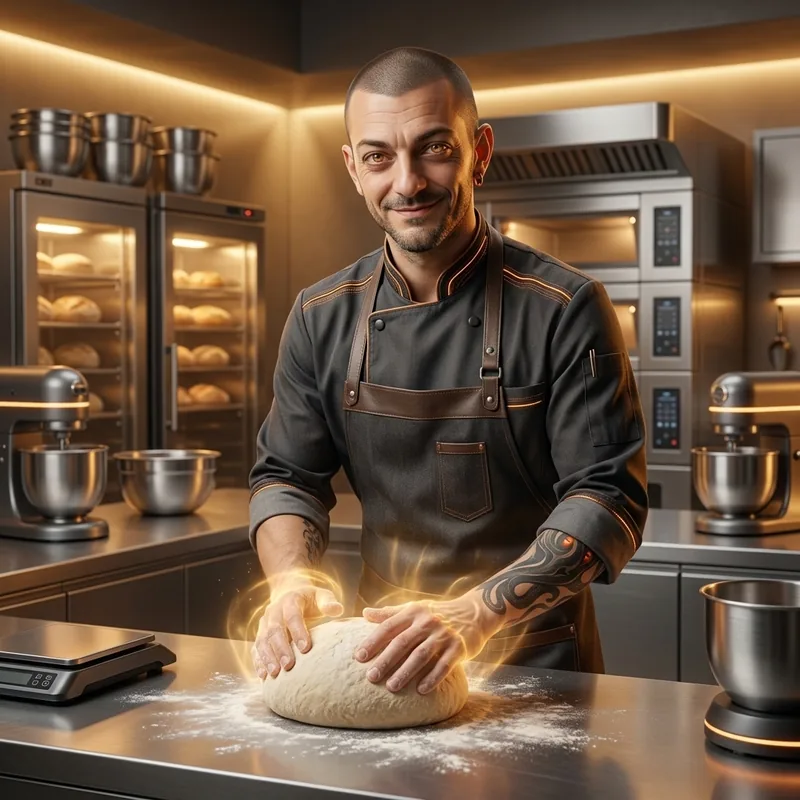
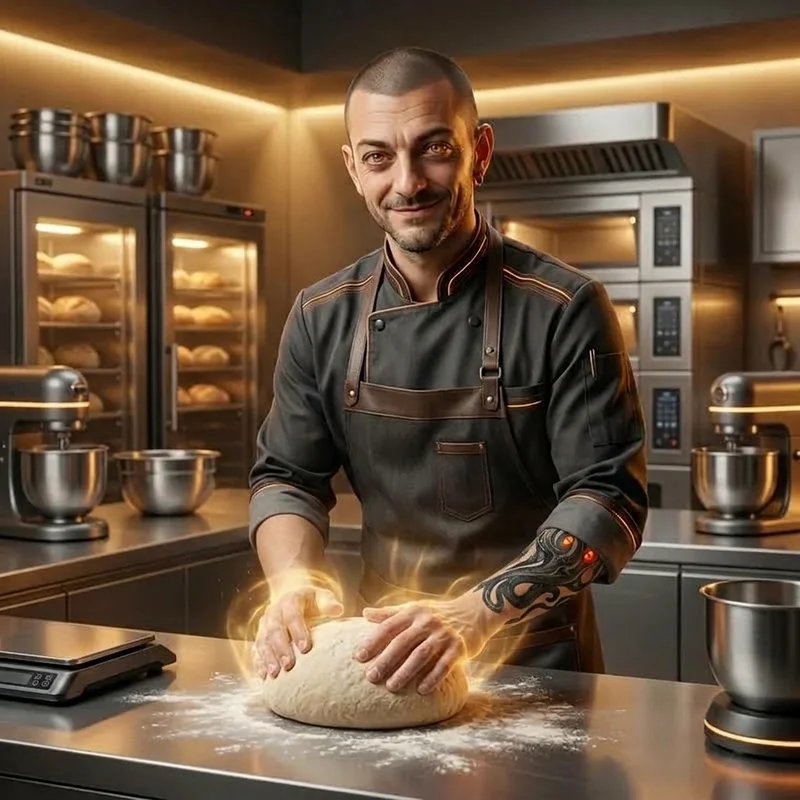
Ecco la nuova immagine di Sitor (visibile anche sopra, al momento della generazione):
**🔗 https://edit-33.preview.emergentagent.com/sitor_official.webp**

- **Tutto invariato**: stesso uomo, stesso viso, stessa posa con le mani sull'impasto, stessa giacca e grembiule, stessa cucina e luci dorate.
- **Braccio sinistro** (a destra nell'immagine): polpo in inchiostro nero con tentacoli avvolti sull'avambraccio e due occhi arancioni che brillano, nello stile di `avatar_miki.jpg`.
- **Braccio destro** (a sinistra nell'immagine): pelle pulita, il piccolo tatuaggio è sparito.

Dettagli tecnici:
- Vecchia immagine preservata come `frontend/public/sitor_official_vecchia.webp`
- Nuova salvata come `frontend/public/sitor_official.webp` — webp, 800×800, 70.484 byte
- `sw.js`: cache `mikilab-v94` → `mikilab-v95`
- Build completata senza errori secondo i test eseguiti — `Done in 17.72s`

Ti invito a procedere con un controllo cliccando **Publish** dalla dashboard e a segnalarmi se riscontri problemi o se desideri che approfondisca ulteriori test.

Emergent-Commit-Key: d1066f9bffe6b0725a4f78c557799c82a2fac8f9f348b707e531dd3e4a7ac25f

Changed region(s): [[0.5938, 0.6562, 0.75, 0.7812], [0.3438, 0.625, 0.4062, 0.7188], [0.4375, 0.3438, 0.4688, 0.375]]

diff --git a/frontend/public/sw.js b/frontend/public/sw.js
@@ -1,4 +1,4 @@
-const CACHE_NAME = "mikilab-v94";
+const CACHE_NAME = "mikilab-v95";
 const API_CACHE = "mikilab-api-v62";
 const API_CACHE_MAX = 150;
 // GET API cui è consentita la copia offline (network-first). MAI /sitor/*, /live*, POST.
